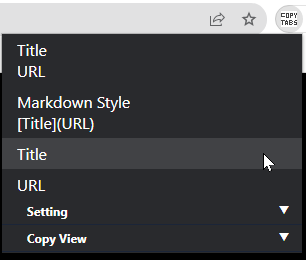
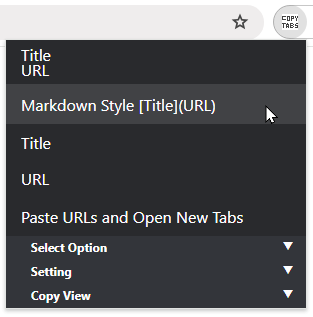
update readme image

diff --git a/README.md b/README.md
@@ -12,14 +12,17 @@ https://github.com/standard-software/chrome-copy-tabs-title-url
 
 ## Screenshot
 
-menu expand  
-![menu_expand](./image/menu_1.png)
+Copy Tabs Menu Items
+![menu1](./image/menu_1.png)
 
-menu collapse Copy View  
-![menu](./image/menu_2.png)
+Expand Copy View
+![menu2](./image/menu_2.png)
 
-menu collapse Setting  
-![menu](./image/menu_3.png)
+Expand Select Option
+![menu3](./image/menu_3.png)
+
+Expand Setting
+![menu3](./image/menu_4.png)
 
 ## Feature
 
